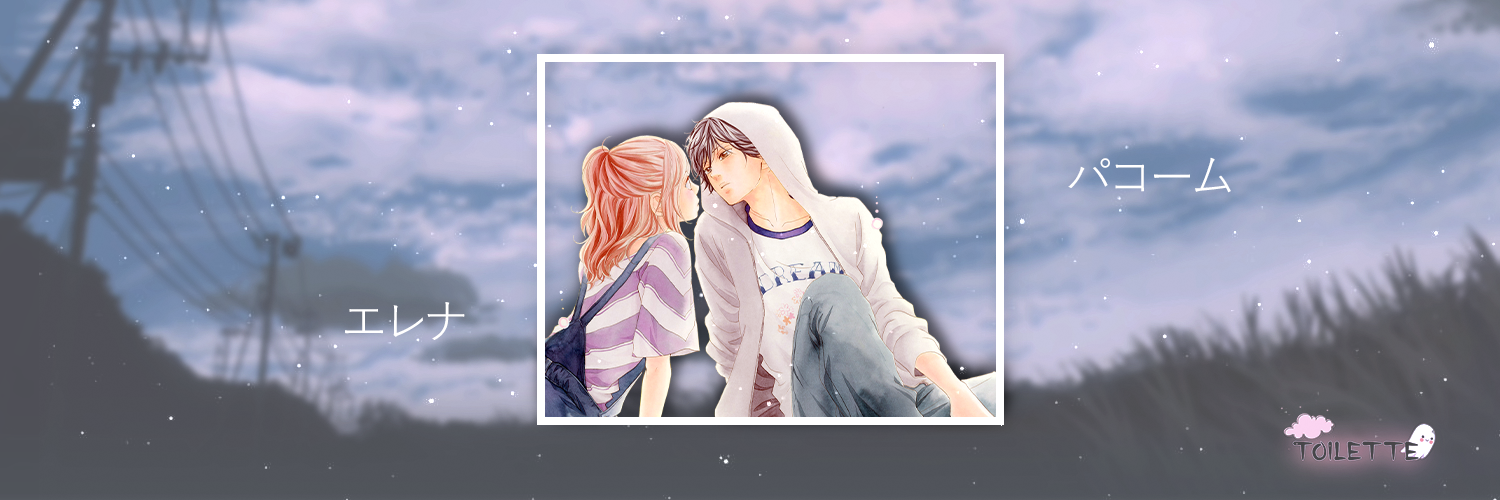
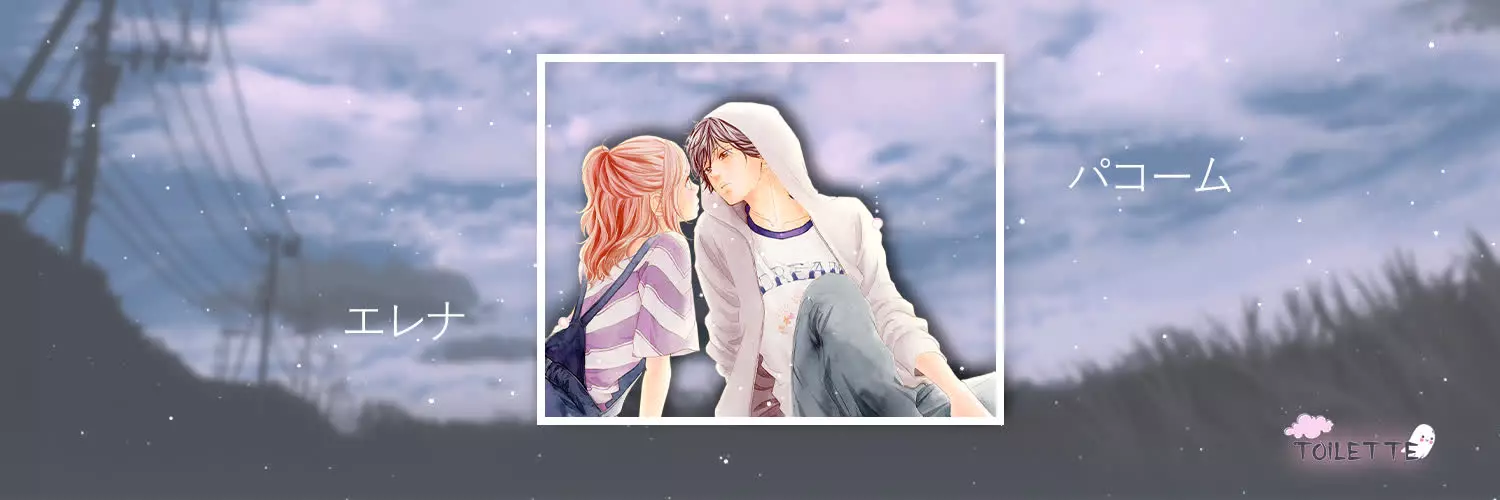
Fix images format

diff --git a/pages/about.html b/pages/about.html
@@ -62,7 +62,7 @@
 
 <!-- FOOTER -->
 <footer class=" d-flex align-items-center justify-content-center about-footer position-relative fixed-bottom">
-    <img class="ours" src="../images/187-1872985_cute-bear-sticker-kawaii-pink-png-mochi-pink.png" alt="ours cute">
+    <img class="ours" src="../images/r-sticker-kawaii-pink-png-mochi-pink.webp" alt="ours cute">
     <div> 
         <h5 class="text-center">Potachi Design™</h5>
     </div>
